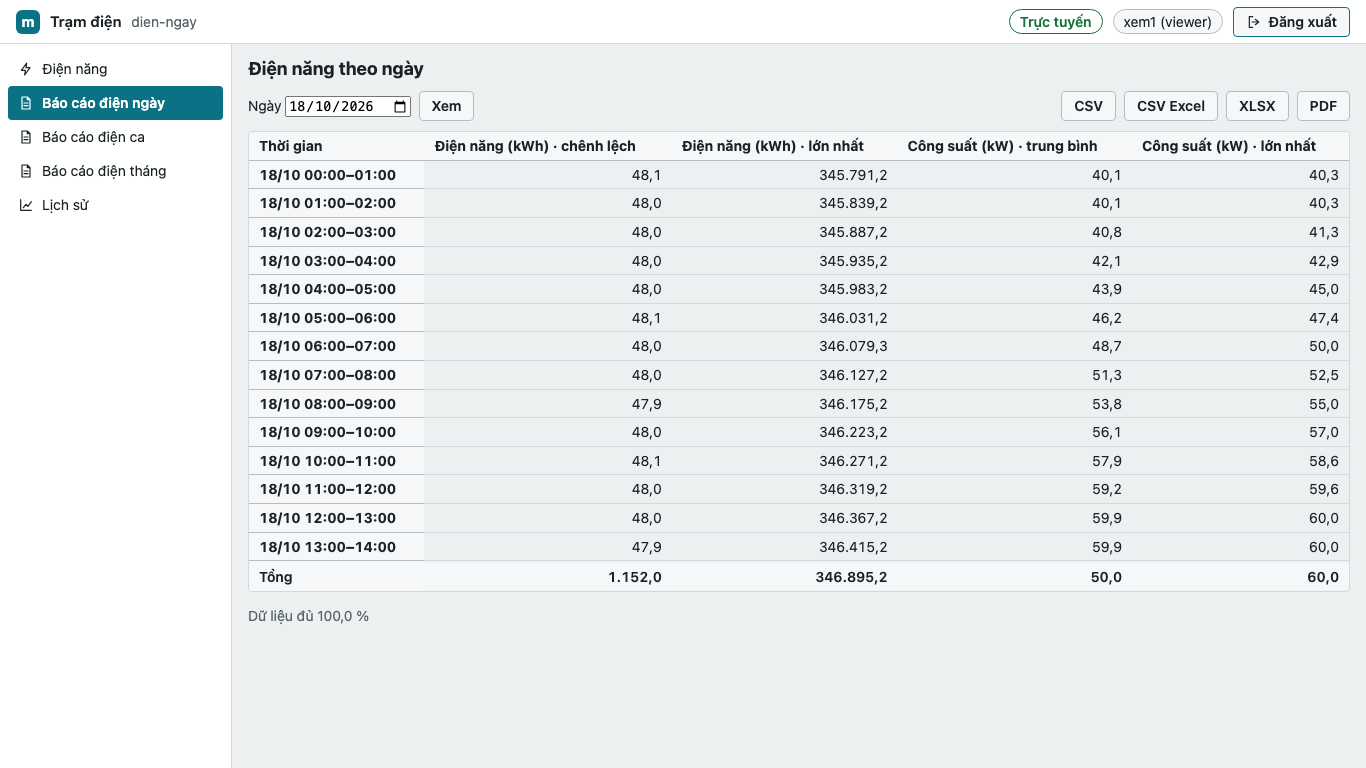
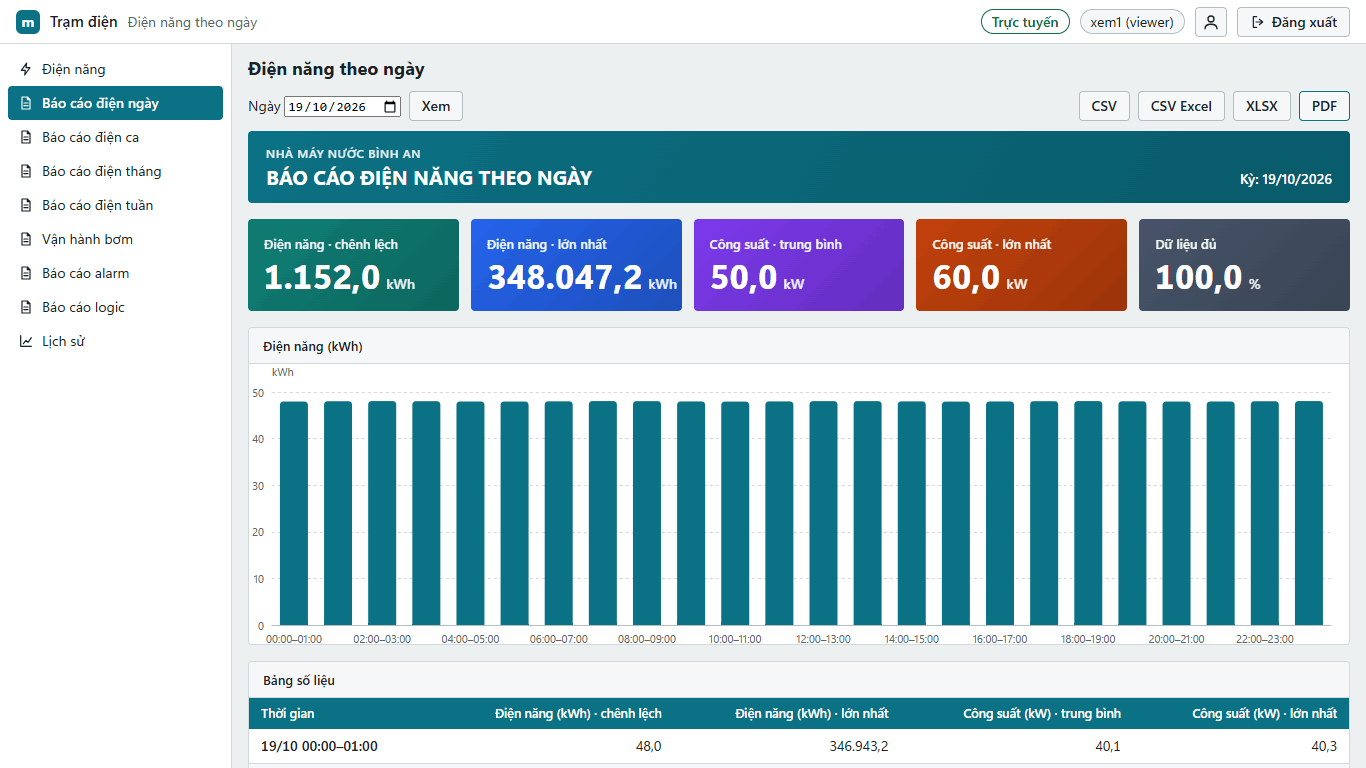
docs(015): hướng dẫn kỹ sư (thiết kế báo cáo, thư viện mẫu), người vận hành (đọc báo cáo, alarm, thiết bị, logic, kỳ tuần/khoảng); ảnh trang báo cáo, trang đầu PDF, trình thiết kế

diff --git a/apps/studio/src/i18n/vi-reports.ts b/apps/studio/src/i18n/vi-reports.ts
@@ -31,7 +31,7 @@ export const viReports = {
   'rpt.ds.on': 'Bật',
   'rpt.ds.off': 'Tắt',
   'rpt.ds.kind': 'Loại báo cáo',
-  'rpt.ds.need11': 'Cần định dạng project 1.1 (Project → Nâng cấp định dạng).',
+  'rpt.ds.need11': 'Cần định dạng project 1.1 (mở lại project và đồng ý nâng cấp).',
   'rpt.ds.banner11':
     'Project định dạng cũ: loại báo cáo, kỳ tuần/khoảng, thẻ, biểu đồ và thời gian ON cần định dạng 1.1.',
   'rpt.ds.grouping': 'Nhóm hàng',

diff --git a/docs/user/engineer-guide.md b/docs/user/engineer-guide.md
@@ -407,7 +407,39 @@ Kỹ sư không cập nhật runtime: việc này cần tài khoản administrat
 
 - **Alarm** > **Danh sách alarm**: loại **Số** (bit), **Ngưỡng** (HH, H, L, LL, Deadband, Trễ bật, Trễ tắt), **Quality**. **Lớp alarm**: ưu tiên, màu, nhấp nháy, cần xác nhận, âm thanh. **Thử alarm** để xem trước.
 - **Lưu trữ**: nhóm theo **Chu kỳ**, **Thay đổi**, **Kết hợp** hoặc **Kích hoạt**; khung **Ước tính ghi** cho số MB/ngày. Vượt ngân sách ghi thì Studio hỏi trước khi nạp xuống. Ghi nhiều làm mòn bộ nhớ eMMC: chỉ lưu Tag cần.
-- **Báo cáo**: mẫu theo ngày, ca, tháng; **Xem trước báo cáo** với dữ liệu mô phỏng hoặc dữ liệu thiết bị.
+- **Báo cáo**: xem mục 12.1.
+
+### 12.1. Thiết kế báo cáo
+
+**Thêm báo cáo**: chuột phải **Báo cáo** trên cây > **Thêm báo cáo…** (hoặc bảng lệnh Ctrl+Shift+P > "Thêm báo cáo"). Trang Báo cáo có **thư viện mẫu**: **Báo cáo ca**, **Báo cáo ngày**, **Báo cáo tháng**, **Báo cáo năng lượng**, **Báo cáo alarm**, **Vận hành thiết bị**, **Ghi PLC của logic**. Chọn một mẫu: Studio dựng sẵn cột từ nhóm lưu trữ có **Tổng hợp** (Tag số cho báo cáo bảng, Tag BOOL cho vận hành thiết bị, Tag có đơn vị kWh, kW cho năng lượng) rồi mở trình thiết kế.
+
+![Thư viện mẫu báo cáo: bảy thẻ mẫu và bảng các báo cáo của project (tên, loại, nhóm lưu trữ, kỳ, số cột)](img/eng-thu-vien-mau-bao-cao.png)
+
+Trình thiết kế có ba vùng:
+
+- **Cấu trúc báo cáo** (trái): **Thông tin chung**, **Kỳ và nhóm hàng**, **Thẻ tổng hợp**, **Biểu đồ**, **Cột** (mỗi cột một mục), **Trang in**. Mục có lỗi có dấu đỏ.
+- **Xem trước trực tiếp** (giữa): báo cáo dựng bằng **đúng mã của trang vận hành** trên **Dữ liệu mô phỏng** (hoặc **Dữ liệu thiết bị** khi Online). Bấm vào dải tiêu đề, hàng thẻ, biểu đồ hay tiêu đề cột để chọn phần đó. Nút **CSV**, **CSV (Excel vi-VN)**, **XLSX**, **PDF** xuất thử.
+- **Thuộc tính** (phải): trường của phần đang chọn.
+
+![Trình thiết kế báo cáo Năng lượng theo ngày: Cấu trúc bên trái (cột Công suất đang chọn), xem trước có dải tiêu đề, thẻ màu, biểu đồ; Thuộc tính của cột bên phải: Tag, nhãn, đơn vị, số lẻ, hàm](img/eng-thiet-ke-bao-cao.png)
+
+Thao tác:
+
+1. **Thông tin chung**: tên, id, **Loại báo cáo** (Bảng tổng hợp, Vận hành thiết bị, Sự kiện alarm, Ghi PLC của logic), nhóm lưu trữ (chỉ nhóm có Tổng hợp), tiêu đề.
+2. **Kỳ và nhóm hàng**: **Ngày** (hàng 15, 30 hoặc 60 phút), **Ca** (2, 3, 4, 6, 8 hoặc 12 ca từ giờ bắt đầu; nhãn ca hiện ngay), **Tuần** và **Tháng** (hàng theo ngày), **Khoảng ngày** (người xem chọn từ ngày đến ngày, tối đa 31 ngày).
+3. **Thêm cột**: kéo Tag từ panel **Tag** thả vào vùng xem trước hoặc Cấu trúc, hoặc gõ tên ở ô **Thêm cột** (có gợi ý). Chỉ nhận Tag của nhóm lưu trữ; Vận hành thiết bị chỉ nhận Tag BOOL.
+4. **Cột**: Tag, nhãn, đơn vị (**Gợi ý đơn vị**: kW + Tổng ra kWh, Thời gian ON ra giờ), số lẻ, hàm: **Trung bình**, **Nhỏ nhất**, **Lớn nhất**, **Tổng (tích phân)**, **Đầu kỳ**, **Cuối kỳ**, **Chênh lệch**, **Số mẫu**, **Thời gian ON** (Tag BOOL). Vận hành thiết bị: **Thời gian ON**, **Số lần bật**. **Lên**, **Xuống** đổi thứ tự; **Bỏ cột**.
+5. **Thẻ tổng hợp**: bật, tắt hàng thẻ (giá trị cả kỳ của tối đa 4 cột đầu và Dữ liệu đủ).
+6. **Biểu đồ**: **Tự chọn** (các cột cùng đơn vị với cột đầu; hàm cộng dồn vẽ cột, còn lại vẽ đường), **Đường**, **Cột**, **Không vẽ**.
+7. **Trang in**: **Tên đơn vị** (chung cho mọi báo cáo; trống thì dùng tên project), khổ A4/A3, hướng, chân trang, dòng tổng.
+
+Mỗi thay đổi hoàn tác được (Ctrl+Z). Lỗi `E_RPT_*` hiện tại trường và ở tab **Thông tin** của dock dưới (nhấp đúp để tới đúng chỗ); vẫn lưu được khi còn lỗi.
+
+Báo cáo alarm và logic không có cột Tag: xem trước dùng sự kiện mô phỏng từ alarm và luật của project.
+
+![Trình thiết kế với báo cáo Alarm theo ngày: thẻ số lần xuất hiện, chưa xác nhận, thời gian trung bình tới xác nhận, đang còn; biểu đồ số lần xuất hiện theo giờ](img/eng-thiet-ke-bao-cao-alarm.png)
+
+**Định dạng 1.1**: loại báo cáo, kỳ Tuần và Khoảng ngày, thẻ, biểu đồ, Thời gian ON và Tên đơn vị cần project định dạng 1.1. Project cũ: các tùy chọn này bị khóa kèm lý do; mở lại project và đồng ý nâng cấp ở hộp **Mở project định dạng …**. Project mẫu: `projects/report-demo`.
 
 <a id="help-errors"></a>
 

diff --git a/docs/user/operator-guide.md b/docs/user/operator-guide.md
@@ -185,11 +185,34 @@ Trang **tự nối lại**, không cần F5. Kèm theo là "Cập nhật cuối 
 Cần trang `https://` và đăng nhập.
 
 - **Lịch sử**: chọn nhóm lưu trữ, chọn tối đa 16 Tag, chọn khoảng (1 giờ đến 30 ngày, Hôm nay, Hôm qua). Có biểu đồ và bảng; **Xuất CSV** để tải.
-- **Báo cáo**: chọn kỳ (Ngày, Ngày làm việc, Tháng), bấm **Xem**, rồi tải **CSV**, **CSV Excel**, **XLSX** hoặc **PDF**.
+- **Báo cáo**: chọn kỳ rồi bấm **Xem**. Kỳ theo mẫu: **Ngày**, **Ngày làm việc** (báo cáo ca: ca đêm sau 0 giờ thuộc ngày làm việc hôm trước), **Tuần** (thứ Hai đến Chủ nhật), **Tháng**, hoặc **Từ ngày** – **Đến ngày** (tối đa 31 ngày). Đường dẫn giữ kỳ đã chọn (F5 vẫn xem đúng kỳ đó). Tải **CSV**, **CSV Excel**, **XLSX** hoặc **PDF**: các tệp có cùng số với trang.
 
 ![Trang Lịch sử dữ liệu: nhóm Áp suất, hai Tag, khoảng 8 giờ; biểu đồ đường áp suất và trạng thái bơm; bảng giá trị có Xuất CSV](img/op-lich-su.png)
 
-![Trang báo cáo Điện năng theo ngày: ô Ngày, nút Xem, CSV, CSV Excel, XLSX, PDF; bảng theo giờ có hàng Tổng và dòng Dữ liệu đủ 100,0 %](img/op-bao-cao.png)
+### 8.1. Đọc một báo cáo
+
+Từ trên xuống:
+
+1. **Dải tiêu đề**: tên đơn vị, tên báo cáo, kỳ.
+2. **Thẻ tổng hợp** màu: giá trị cả kỳ của các cột đầu (ví dụ tổng điện năng, công suất trung bình, lớn nhất) và **Dữ liệu đủ** (phần trăm thời gian có dữ liệu; dưới 100 % là thiết bị có lúc không ghi).
+3. **Biểu đồ** trong khung có tiêu đề: rê chuột lên cột hay điểm để xem số.
+4. **Bảng số liệu**: một hàng mỗi giờ, ca hoặc ngày; hàng xen màu; **Tổng** ở cuối luôn thấy khi cuộn. Hàng của kỳ chưa tới ghi "chưa tới"; ô gạch chấm là hàng thiếu dữ liệu (dưới 95 %).
+
+![Trang báo cáo Điện năng theo ngày: dải tiêu đề Nhà máy nước Bình An, năm thẻ màu (điện năng chênh lệch, lớn nhất, công suất trung bình, lớn nhất, dữ liệu đủ), biểu đồ cột theo giờ, bảng có hàng Tổng](img/op-bao-cao.png)
+
+### 8.2. Báo cáo alarm, vận hành thiết bị, logic
+
+- **Báo cáo alarm**: số lần alarm xuất hiện, được xác nhận, hết theo giờ (ca, ngày); thẻ **Số lần xuất hiện**, **Chưa xác nhận**, **TB tới xác nhận** (phút), **Đang còn**; bảng **Theo mức ưu tiên**, **Theo khu vực**, **Top 10 alarm xảy ra nhiều nhất** và **Danh sách sự kiện** (thời điểm, sự kiện, alarm, mức, khu, nội dung, người xác nhận). Cần quyền xem trang Alarm. Mỗi kỳ đọc tối đa 5.000 lần xảy ra; danh sách hiện 1.000 sự kiện đầu (báo cáo ghi rõ khi bị cắt).
+- **Vận hành thiết bị**: **thời gian ON** (giờ chạy) và **số lần bật** của bơm, quạt theo giờ, ca hoặc ngày. Lần bật ngay tại đầu kỳ không được đếm (không biết trạng thái trước kỳ). Nhóm lưu trữ ghi quá nhiều dòng (trên 10.000 dòng trong kỳ) thì cột số lần bật để trống kèm ghi chú.
+- **Ghi PLC của logic**: các lần luật logic ghi PLC (**Thành công**, **Lỗi**, **Bị chặn** do tắt ghi hay giới hạn tần suất), theo luật và danh sách. Thiết bị chạy runtime cũ báo "chưa hỗ trợ báo cáo logic".
+
+![Báo cáo vận hành bơm theo ca: thẻ thời gian ON và số lần bật của Bơm 1, dữ liệu đủ; biểu đồ cột giờ chạy theo ca; bảng ba ca và hàng Tổng](img/op-bao-cao-thiet-bi.png)
+
+![Báo cáo alarm theo ngày: thẻ số lần xuất hiện, chưa xác nhận, thời gian trung bình tới xác nhận, đang còn; biểu đồ số lần theo giờ; bảng và thống kê theo mức ưu tiên](img/op-bao-cao-alarm.png)
+
+![Trang đầu PDF của báo cáo Điện năng theo ngày: dải tiêu đề, năm thẻ màu, biểu đồ cột trong khung, bảng sọc](img/op-bao-cao-pdf.png)
+
+![Trang đầu PDF của báo cáo logic: dải tiêu đề, bốn thẻ, biểu đồ cột chồng thành công, lỗi, bị chặn; bảng theo giờ](img/op-bao-cao-pdf-logic.png)
 
 ## 9. Khi có sự cố: làm gì, gọi ai
 
